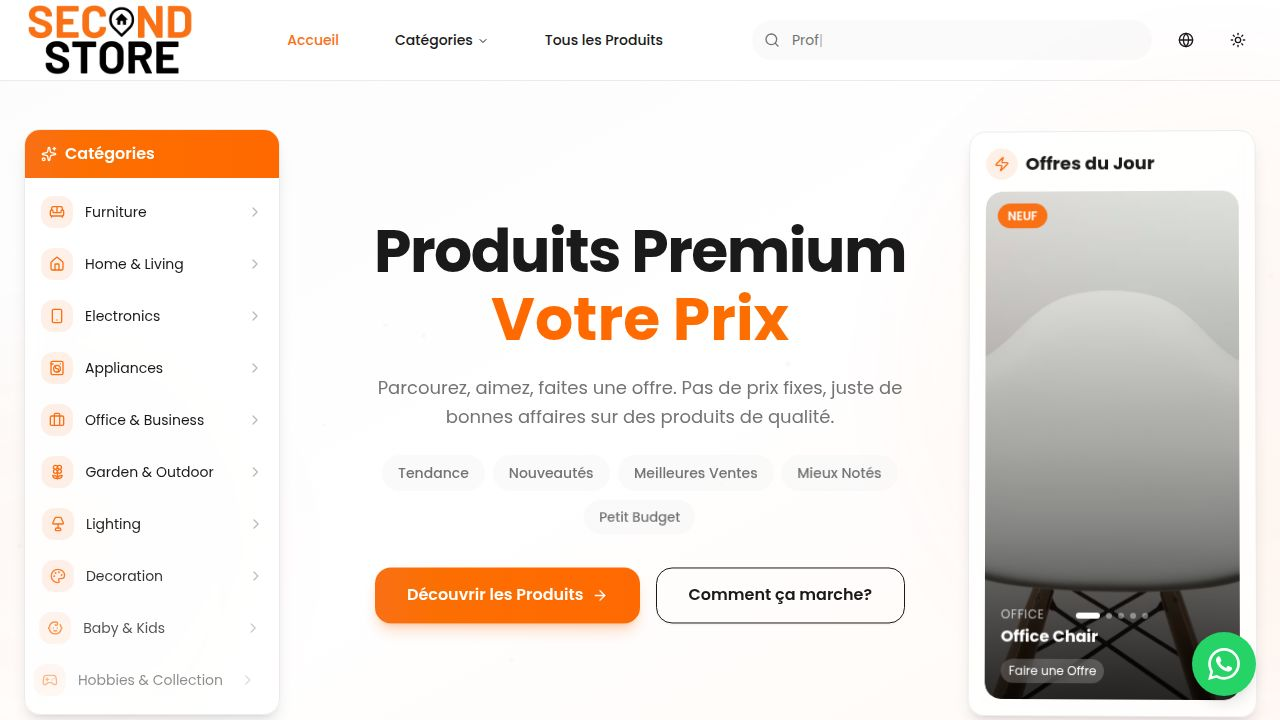
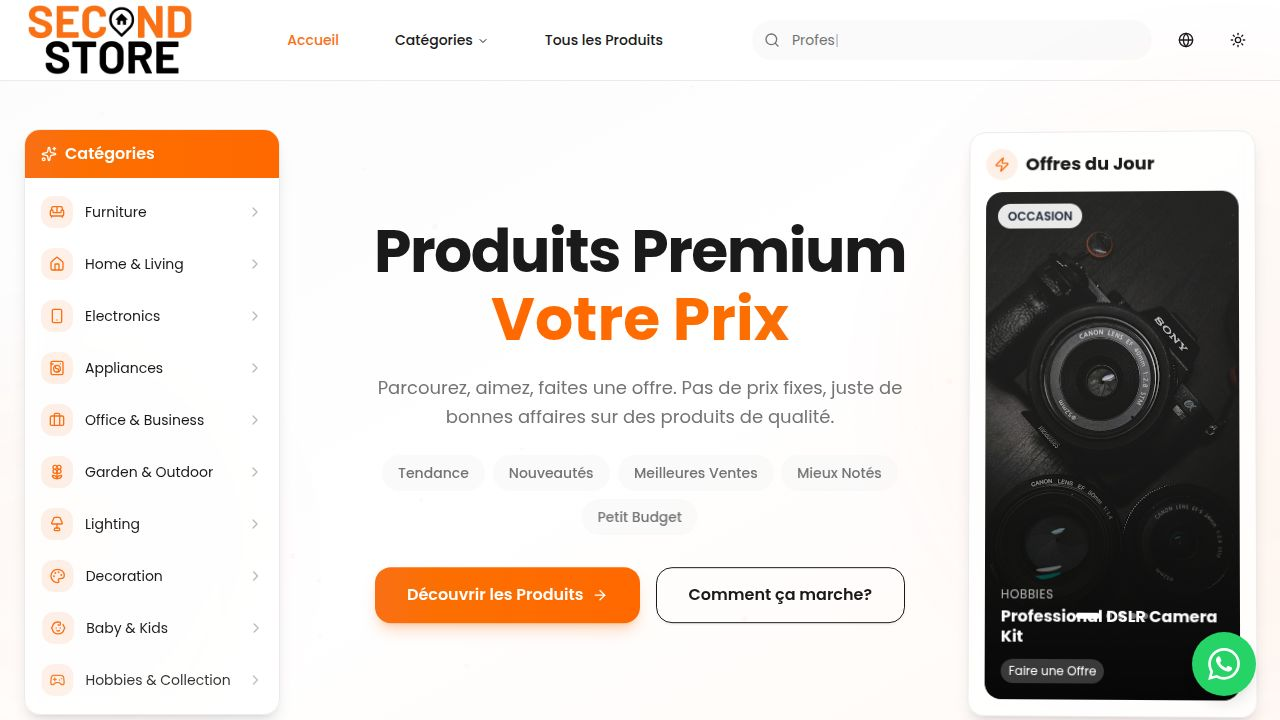
Add functionality to display sold products and their categories
Adds new API endpoints and storage methods to filter and retrieve sold products, including by their original category.

Replit-Commit-Author: Agent
Replit-Commit-Session-Id: a356d839-00f8-4285-8e0e-aafba50380fe
Replit-Commit-Checkpoint-Type: intermediate_checkpoint
Replit-Commit-Event-Id: 826bfd9e-4ef0-4c68-8f71-4b97a8941d96
Replit-Commit-Screenshot-Url: https://storage.googleapis.com/screenshot-production-us-central1/4ddbcb88-ef6c-408d-9746-e22c289cd479/a356d839-00f8-4285-8e0e-aafba50380fe/TcAFASw
Replit-Helium-Checkpoint-Created: true

diff --git a/server/storage.ts b/server/storage.ts
@@ -35,6 +35,8 @@ export interface IStorage {
   // Product methods
   getProducts(): Promise<Product[]>;
   getActiveProducts(): Promise<Product[]>;
+  getSoldProducts(): Promise<Product[]>;
+  getSoldProductsByCategory(categoryId: string): Promise<Product[]>;
   getProduct(id: string): Promise<Product | undefined>;
   getProductBySlug(slug: string): Promise<Product | undefined>;
   getProductsByCategory(categoryId: string): Promise<Product[]>;
@@ -123,7 +125,27 @@ export class DatabaseStorage implements IStorage {
     return await db
       .select()
       .from(products)
-      .where(eq(products.isActive, true))
+      .where(and(eq(products.isActive, true), eq(products.isSold, false)))
+      .orderBy(desc(products.createdAt));
+  }
+
+  async getSoldProducts(): Promise<Product[]> {
+    return await db
+      .select()
+      .from(products)
+      .where(and(eq(products.isActive, true), eq(products.isSold, true)))
+      .orderBy(desc(products.createdAt));
+  }
+
+  async getSoldProductsByCategory(categoryId: string): Promise<Product[]> {
+    return await db
+      .select()
+      .from(products)
+      .where(and(
+        eq(products.category, categoryId),
+        eq(products.isActive, true),
+        eq(products.isSold, true)
+      ))
       .orderBy(desc(products.createdAt));
   }
 
@@ -174,7 +196,11 @@ export class DatabaseStorage implements IStorage {
     return await db
       .select()
       .from(products)
-      .where(and(eq(products.category, categoryId), eq(products.isActive, true)))
+      .where(and(
+        eq(products.category, categoryId),
+        eq(products.isActive, true),
+        eq(products.isSold, false)
+      ))
       .orderBy(desc(products.createdAt));
   }
 
@@ -182,7 +208,11 @@ export class DatabaseStorage implements IStorage {
     return await db
       .select()
       .from(products)
-      .where(and(eq(products.featured, true), eq(products.isActive, true)))
+      .where(and(
+        eq(products.featured, true),
+        eq(products.isActive, true),
+        eq(products.isSold, false)
+      ))
       .orderBy(desc(products.createdAt));
   }
 
@@ -294,7 +324,11 @@ export class DatabaseStorage implements IStorage {
     return await db
       .select()
       .from(products)
-      .where(and(eq(products.isActive, true), gte(products.createdAt, dateThreshold)))
+      .where(and(
+        eq(products.isActive, true),
+        eq(products.isSold, false),
+        gte(products.createdAt, dateThreshold)
+      ))
       .orderBy(desc(products.createdAt));
   }
 }

diff --git a/server/routes.ts b/server/routes.ts
@@ -258,10 +258,16 @@ export async function registerRoutes(
   // Products Routes (public - only active products)
   app.get("/api/products", async (req, res) => {
     try {
-      const { category, featured } = req.query;
+      const { category, featured, sold } = req.query;
       
       let products;
-      if (category) {
+      if (sold === "true") {
+        if (category) {
+          products = await storage.getSoldProductsByCategory(category as string);
+        } else {
+          products = await storage.getSoldProducts();
+        }
+      } else if (category) {
         products = await storage.getActiveProductsByCategory(category as string);
       } else if (featured === "true") {
         products = await storage.getFeaturedProducts();
